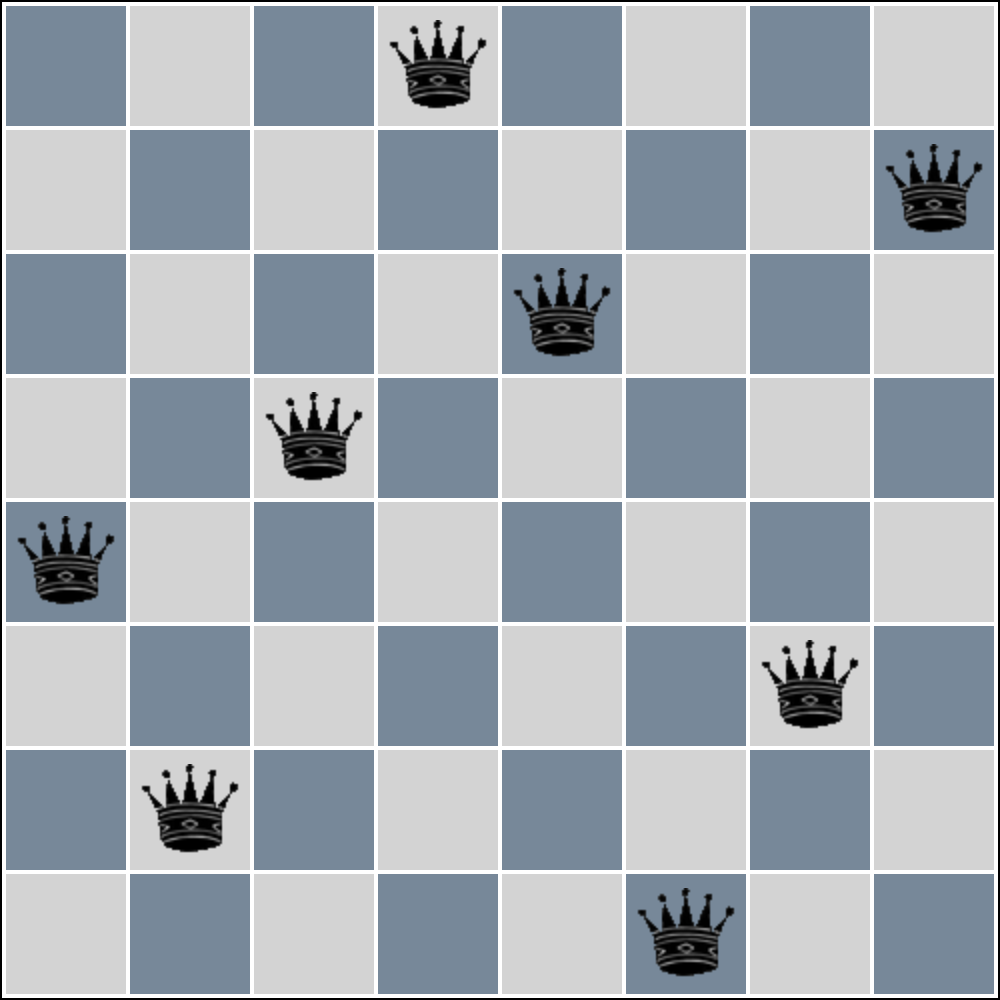
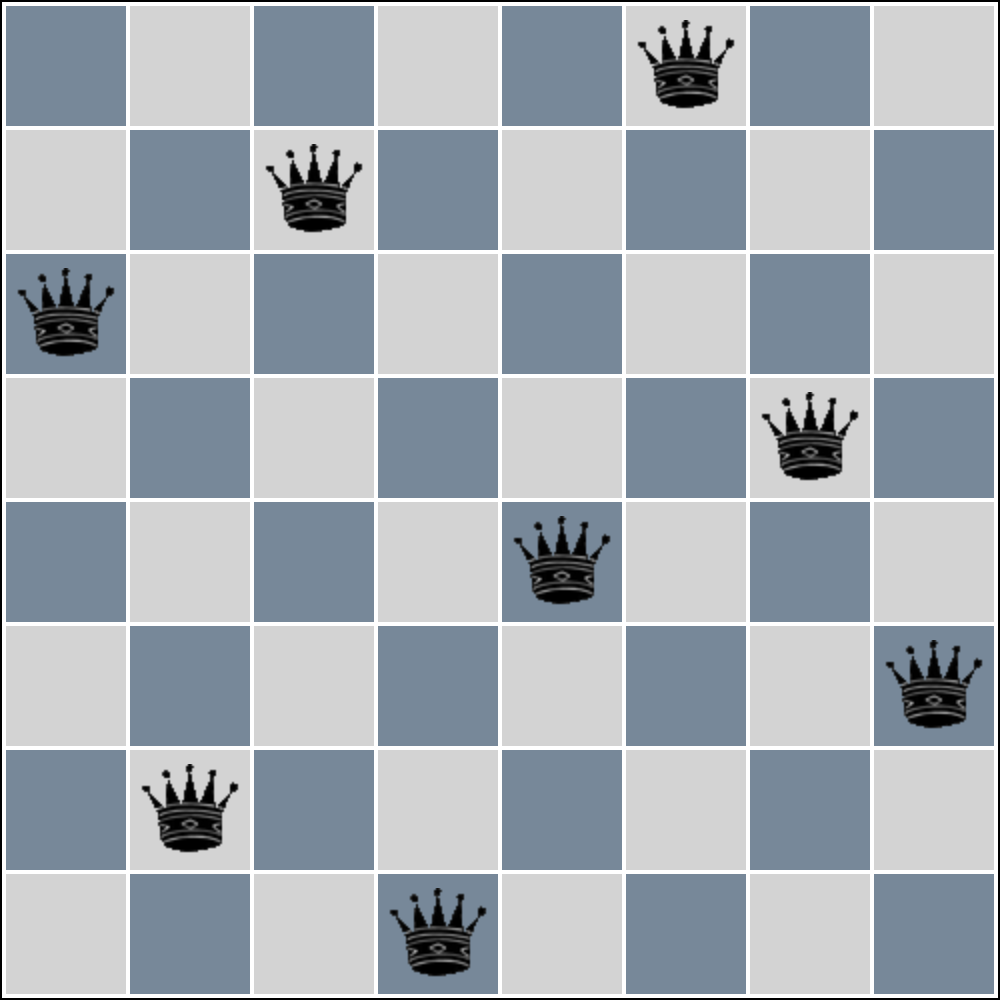
Simplify attack check and improve chart axis labels

diff --git a/ga-8queens/src/br/inatel/c210/ga/entity/Problem.java b/ga-8queens/src/br/inatel/c210/ga/entity/Problem.java
@@ -9,12 +9,6 @@ public class Problem
     {
         Integer[] genes = c.getGenes();
 
-        // search for duplicates (invalid state)
-        for (int i = 0; i < 8; i++)
-            for (int j = i + 1; j < 8; j++)
-                if (genes[i] == genes[j])
-                    return 28.0;
-
         // search for pairs of attacking queens
         double attacks = 0.0;
         for (int q1 = 0; q1 < 8; q1++)
@@ -25,7 +19,8 @@ public class Problem
                 double x2 = q2, y2 = genes[q2];
                 double m = (y2 - y1) / (x2 - x1);
                 double deg = Math.toDegrees(Math.atan(m));
-                if (Double.compare(Math.abs(deg), 45.0) == 0)
+                if ((Double.compare(Math.abs(deg), 0.0) == 0) || // horizontal
+                        (Double.compare(Math.abs(deg), 45.0) == 0)) // diagonal
                     attacks++;
             }
         }

diff --git a/ga-8queens/src/br/inatel/c210/ga/plot/PlotUtils.java b/ga-8queens/src/br/inatel/c210/ga/plot/PlotUtils.java
@@ -26,10 +26,10 @@ public class PlotUtils
 
         // set up
         XYChart chart = QuickChart.getChart(
-            "Generation vs # of Attacking Pairs",
+            "Generation vs Number of Attacking Pairs",
             "Generation",
-            "# of Attacking Pairs",
-            "# of Attacking Pairs (Generation)",
+            "Number of Attacking Pairs",
+            "Number of Attacking Pairs (Generation)",
             dataX.stream().mapToDouble(Double::doubleValue).toArray(),
             dataY.stream().mapToDouble(Double::doubleValue).toArray());
 

diff --git a/ga-8queens/src/br/inatel/c210/ga/runnable/Runner.java b/ga-8queens/src/br/inatel/c210/ga/runnable/Runner.java
@@ -51,7 +51,7 @@ public class Runner
             // print the average score for the current generation
             System.err.println(String.format("Generation # %d -> Average population score = %.3f", generation, populationScore));
 
-        } while (generation < 100);
+        } while (generation < 50);
 
         // find the best individual after running the genetic algorithm
         Chromossome bestChromossome = GeneticUtils.findBestChromossome(population);

diff --git a/ga-8queens/README.md b/ga-8queens/README.md
@@ -9,7 +9,7 @@ Code output:
 ![code_output](https://github.com/marcelovca90-inatel/C210/raw/master/ga-8queens/res/code_output.png)
 
 ```
-Best individual: [4, 6, 3, 0, 2, 7, 5, 1], Score = 0,000
+Best individual: [2, 6, 1, 7, 4, 0, 3, 5], Score = 0,000
 ```
 
 Solution visualization:
